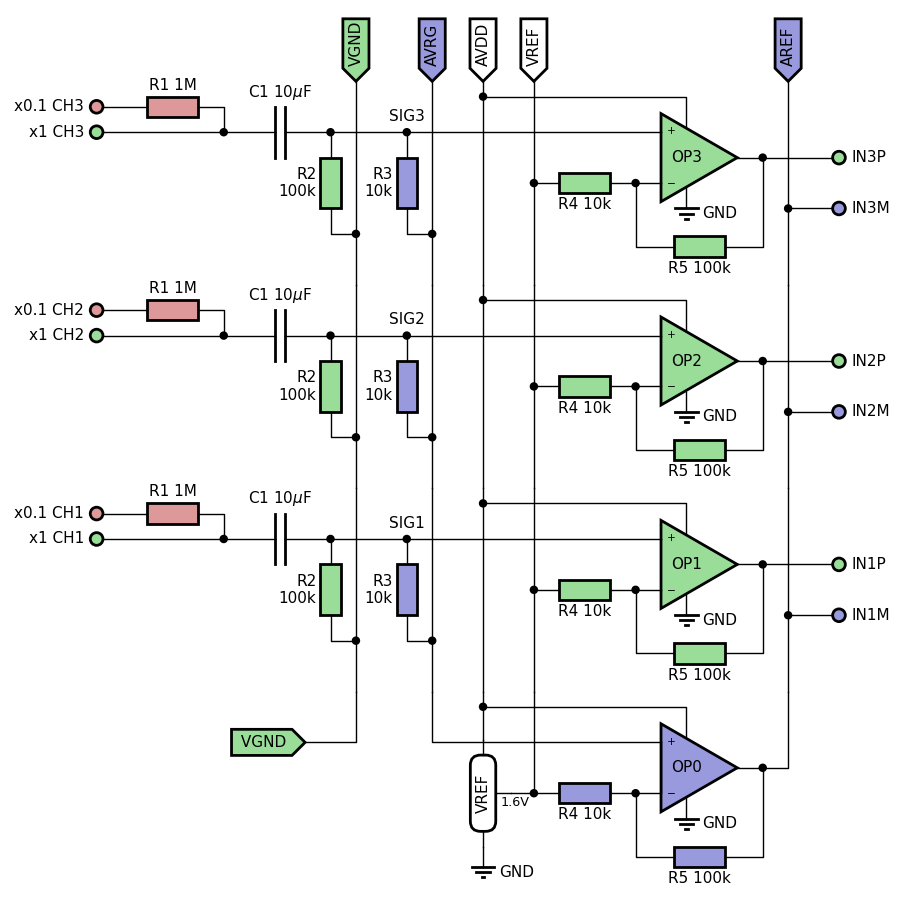
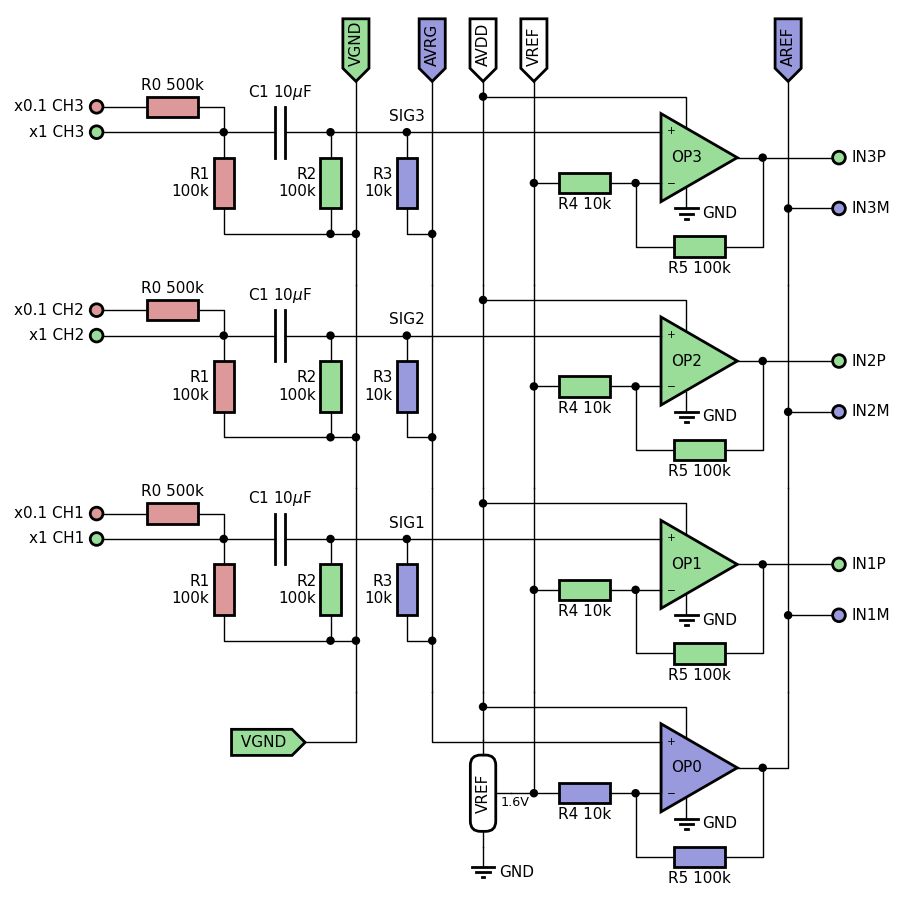
[R5.0] fixed voltage divider

diff --git a/R5.0/amplifiers.py b/R5.0/amplifiers.py
@@ -2,7 +2,8 @@ import matplotlib.pyplot as plt
 import plottools.plottools as pt
 from matplotlib.patches import Rectangle
 
-R1 = '1M'   # voltage divider
+R0 = '500k' # voltage divider
+R1 = '100k' # voltage divider
 R2 = '100k' # referencing input
 R3 = '10k'  # averaging 
 R4 = '10k'
@@ -54,13 +55,14 @@ def preamp(pos, index, show_bus=True):
     nrv = ax.node(ngr.left(1.5))
     r2b, r2t = ax.resistance_v(nrv.down(1), f'R2\n{R2}', 'left',
                                **preamp_style)
-    nv = ax.node(r2b.down(0.5).right(0.5))
-    ax.connect((nrv, r2t, None, r2b, nv))
+    nv = ax.node(r2b.down(0.5))
+    nv1 = ax.node(nv.right(0.5))
+    ax.connect((nrv, r2t, None, r2b, nv, nv1))
     if show_bus:
-        bv = ax.bus(nv.up(3), 'VGND', 'north', **preamp_style)
-        ax.connect((nv.down(1), bv))
+        bv = ax.bus(nv1.up(3), 'VGND', 'north', **preamp_style)
+        ax.connect((nv1.down(1), bv))
     else:
-        ax.connect((nv.down(1), nv.up(3)))
+        ax.connect((nv1.down(1), nv1.up(3)))
 
     c1l, c1r = ax.capacitance_h(nrv.left(1), f'C1 {C1}', 'top')
     nsc = ax.node(c1l.left(1))
@@ -68,11 +70,14 @@ def preamp(pos, index, show_bus=True):
                  **preamp_style)
     ax.connect((pp, ngr, nrv, c1r, None, c1l, nsc, ns1))
 
-    r1l, r1r = ax.resistance_h(nsc.up(0.5).left(1), f'R1 {R1}', 'top',
+    r1b, r1t = ax.resistance_v(nsc.down(1), f'R1\n{R1}', 'left',
                                **vdiv_style)
-    ns2 = ax.pin(r1l.left(1), f'x0.1 CH{1 + index}', 'left',
+    ax.connect((nsc, r1t, None, r1b, nv))
+    r0l, r0r = ax.resistance_h(nsc.up(0.5).left(1), f'R0 {R0}', 'top',
+                               **vdiv_style)
+    ns2 = ax.pin(r0l.left(1), f'x0.1 CH{1 + index}', 'left',
                  **vdiv_style)
-    ax.connect((nsc, r1r, None, r1l, ns2))
+    ax.connect((nsc, r0r, None, r0l, ns2))
 
     ng2 = ax.node(po.right(0.5))
     no = ax.pin(ng2.right(1.5), f'IN{1 + index%4}P', 'right',

diff --git a/R5.0/README.md b/R5.0/README.md
@@ -98,22 +98,27 @@ Teensy pins:
 
 ### Virtual ground and reference voltage
 
-- All signals oscillate around VGND=AVDD/2=1.6V
-- The opamps get VREF=AVDD/2=1.6V as a reference voltage
+- All signals oscillate around the virtual ground VGND=1.6V
+- The opamps get VREF=1.6V as a reference voltage
 - VREF is provided by voltage reference (e.g. [MAX6018AEUR16+T](max6018.pdf))
 - How to implement VGND?
 
 ### Voltage divider
 
-- R1=1M for a voltage divider with R2=100k attenuating strong signals by a factor of 10 (gain=0.1x, red).
-- Alternatively, channels can be fed in directly.
+- R0 forms a voltage divider with R1 and R2 (R1=R2) attenuating strong signals with a gain of R1/(2R0+R1) (gain=0.1x, red).
+- Alternatively, channels can be fed in directly (gain=1).
 - Have two connectors, one for each option.
+
+### High-pass filter
+
+- C1=10uF forms a highpass filter with R2, R1, and R0.
+- Time constant is tau=R2*C1*(R2+2*R0)/(R2+R0) , if R1=r2.
+  tau=1s (R0=0), tau=2s (R0=500k)
+- R1 and R2 reference the input channels to VGND.
+  VGND is the average of the input signals CHx: VGND = mean(CHx) = AVVD/2.
 
 ### Pre-amplifier
 
-- C1=10uF decoupling capacitor, forms a highpas filter with R2.
-- R2 ties the input channels to VGND.
-  VGND is the average of the input signals CHx: VGND = mean(CHx) = AVVD/2.
 - The [TI OPA1662](opa1662.pdf) non-inverting opamps (green) operate on
   virtual ground given by VREF.
   They return the amplified SIGx (=CHx) relative to VREF:
